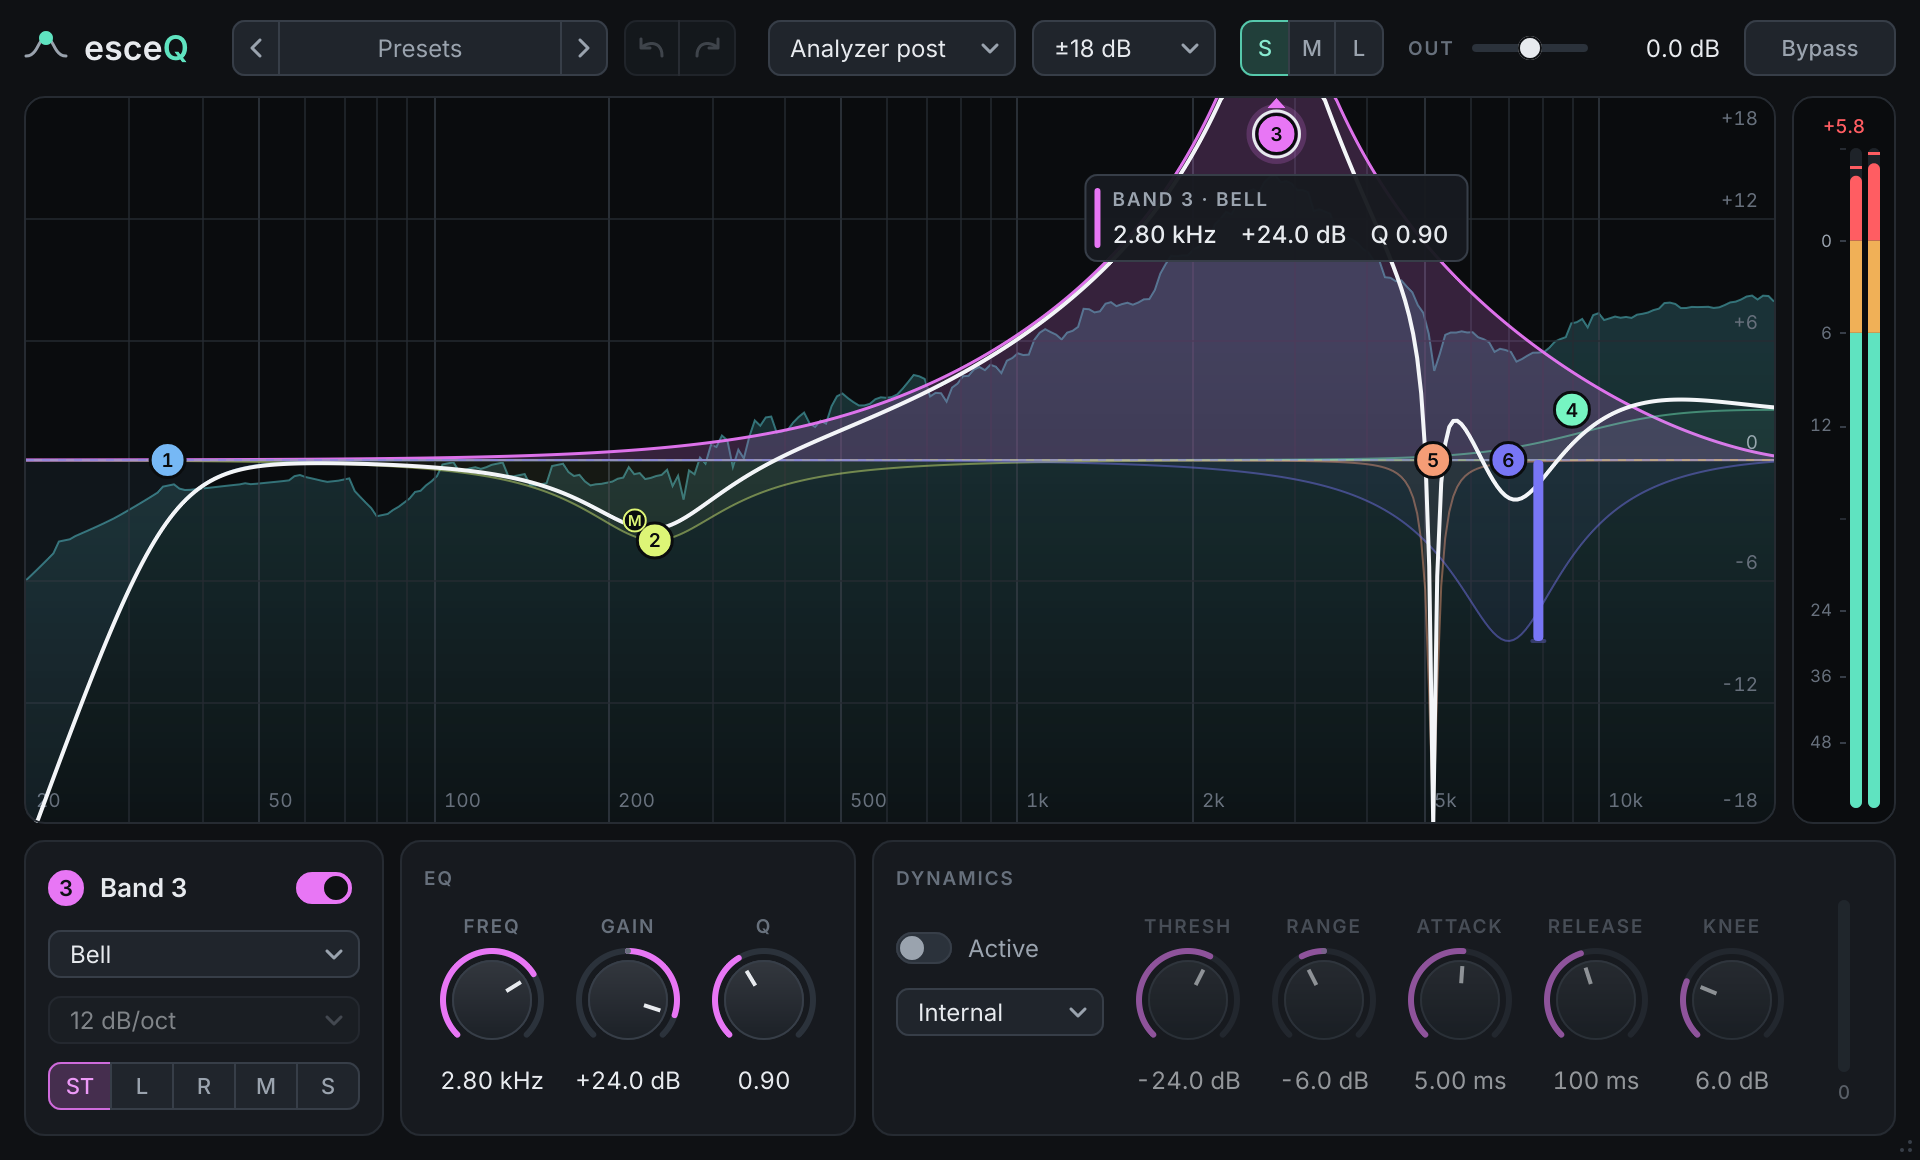
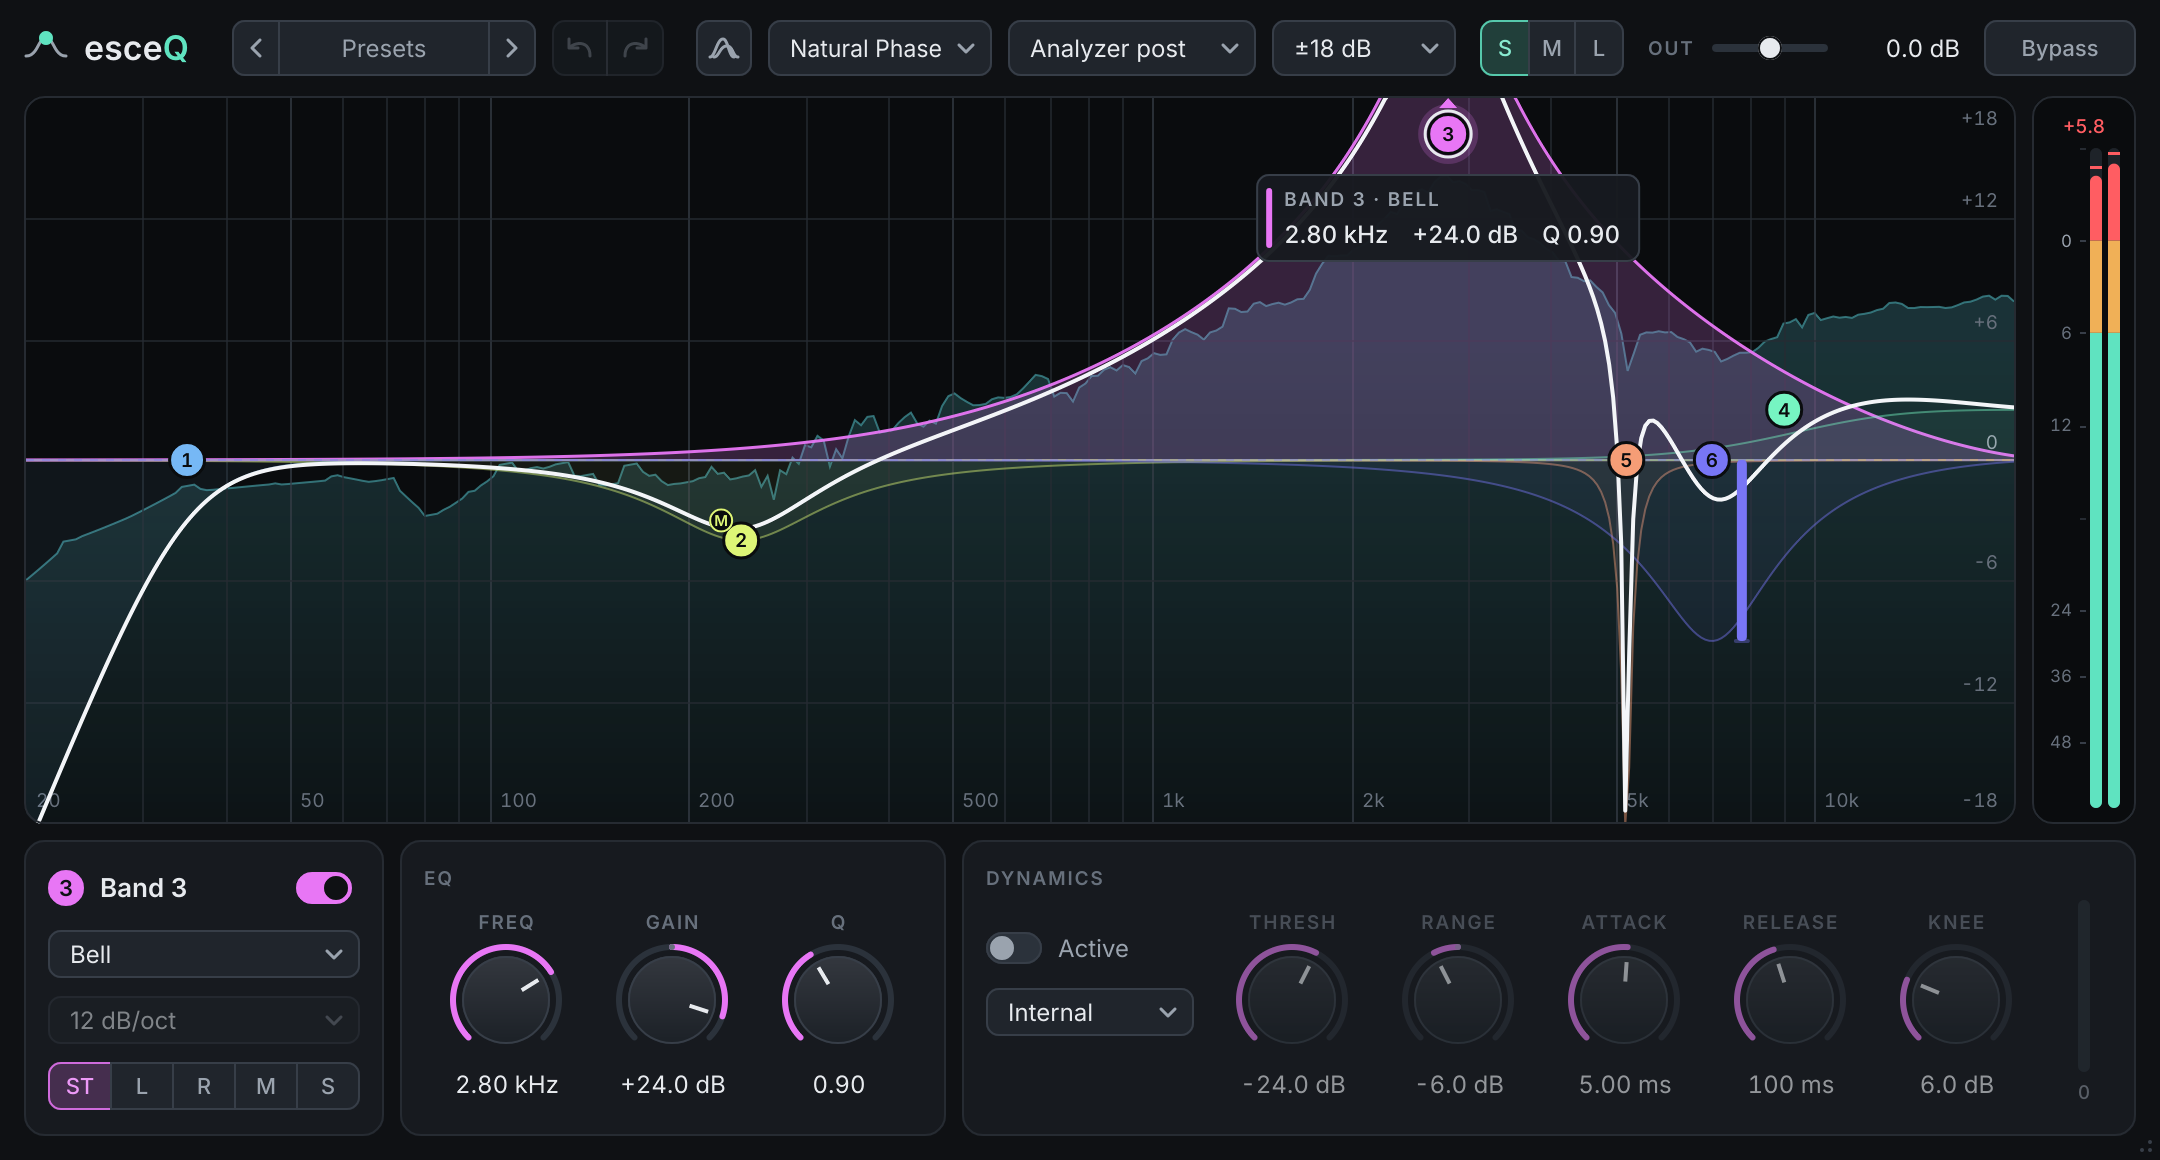
Interfaz: selector del modo de fase en la barra superior
Desplegable enlazado a phase_mode, entre Compare y el analizador. Su
ayuda dice la latencia del modo que suena (texto en ui/logic, con test).

Para que quepa sin estrechar el navegador de presets por debajo de
140 px, el ancho mínimo de la ventana pasa de 960 a 1080 px, y el tamaño
S a 1080 x 580. Capturas de la documentación regeneradas.

Claude-Session: https://claude.ai/code/session_01HP29x4EkYExYU9wRXTNtiZ

diff --git a/ui/src/EqEditor.cpp b/ui/src/EqEditor.cpp
@@ -7,6 +7,7 @@
 #include "Theme.h"
 
 #include "esceq/core/parameters.h"
+#include "esceq/ui/control_logic.h"
 #include "esceq/ui/session_overlay.h"
 
 #include <algorithm>
@@ -59,6 +60,10 @@ EqEditor::EqEditor(PluginProcessor& owner)
     addAndMakeVisible(compare_);
     updateCompareButton();
 
+    phase_.attach(owner.parameter(core::kPhaseMode), core::parameters()[core::kPhaseMode]);
+    addAndMakeVisible(phase_);
+    updatePhaseTooltip();
+
     for (int range : {6, 12, 18, 30})
         range_.addItem(juce::String::fromUTF8("\xC2\xB1") + juce::String(range) + " dB", range);
     range_.onChange = [this] {
@@ -95,8 +100,9 @@ EqEditor::EqEditor(PluginProcessor& owner)
 
     // Orden de tabulación: barra superior, curva y panel.
     int order = 1;
-    for (juce::Component* c : std::initializer_list<juce::Component*>{&presets_, &undo_, &redo_, &compare_, &analyzer_, &range_, &size_, &output_, &bypass_, &curve_,
-                                                                      &panel_})
+    for (juce::Component* c : std::initializer_list<juce::Component*>{&presets_, &undo_, &redo_, &compare_, &phase_,
+                                                                      &analyzer_, &range_, &size_, &output_, &bypass_,
+                                                                      &curve_, &panel_})
         c->setExplicitFocusOrder(order++);
 
     setResizable(true, true);
@@ -205,6 +211,7 @@ void EqEditor::resized()
     undo_.setBounds(toInt(topBar_.undo));
     redo_.setBounds(toInt(topBar_.redo).withTrimmedLeft(-1)); // comparten el borde central
     compare_.setBounds(toInt(topBar_.compare));
+    phase_.setBounds(toInt(topBar_.phase));
     analyzer_.setBounds(toInt(topBar_.analyzer));
     range_.setBounds(toInt(topBar_.range));
     size_.setBounds(toInt(topBar_.size));
@@ -234,8 +241,19 @@ void EqEditor::timerCallback()
     panel_.refresh();
     presets_.refresh();
     updateCompareButton(); // la curva quita de la selección las instancias que se van
+    updatePhaseTooltip();
     undo_.setEnabled(processor_.history().canUndo());
     redo_.setEnabled(processor_.history().canRedo());
+}
+
+void EqEditor::updatePhaseTooltip()
+{
+    // La latencia del modo que suena: cambia un momento después de elegir otro.
+    const int latency = processor_.engineLatencySamples();
+    if (latency == shownLatency_)
+        return;
+    shownLatency_ = latency;
+    phase_.setTooltip(toJuce(phaseModeTooltip(latency, processor_.currentSampleRate())));
 }
 
 void EqEditor::updateCompareButton()

diff --git a/tests/ui/layout_test.cpp b/tests/ui/layout_test.cpp
@@ -73,7 +73,7 @@ TEST_CASE("Disposicion: tamanos predefinidos dentro de los limites y distintos")
     CHECK_FALSE(matchingPreset({1001, 601}).has_value());
     CHECK(clampWindow({10, 10}) == kMinWindow);
     CHECK(clampWindow({99999, 99999}) == kMaxWindow);
-    CHECK(clampWindow({1000, 99999}) == WindowSize{1000, kMaxWindow.height});
+    CHECK(clampWindow({1100, 99999}) == WindowSize{1100, kMaxWindow.height});
 }
 
 TEST_CASE("Disposicion: las zonas de la ventana no se solapan en ningun tamano")
@@ -103,6 +103,7 @@ TEST_CASE("Disposicion: la barra superior cabe entera y no se solapa en ningun t
                              {"deshacer", bar.undo},
                              {"rehacer", bar.redo},
                              {"comparar", bar.compare},
+                             {"fase", bar.phase},
                              {"analizador", bar.analyzer},
                              {"rango", bar.range},
                              {"tamano", bar.size},
@@ -188,7 +189,7 @@ TEST_CASE("Disposicion: tamanos absurdos no producen medidas negativas")
         const auto bar = topBarLayout(editor.topBar);
         for (const Rect& r : {editor.topBar, editor.curve, editor.meter, editor.panel, panel.bandCard, panel.eqCard,
                               panel.dynamicsCard, panel.type, panel.eqKnobs[0], panel.dynamicKnobs[4], panel.dynamicsMeter,
-                              bar.logo, bar.presets, bar.bypass})
+                              bar.logo, bar.presets, bar.phase, bar.bypass})
         {
             CHECK(r.width >= 0.0f);
             CHECK(r.height >= 0.0f);

diff --git a/ui/src/EqEditor.h b/ui/src/EqEditor.h
@@ -19,8 +19,8 @@ class PluginProcessor;
 
 namespace esceq::ui {
 
-/// Ventana del plugin: barra superior (analizador, rango, tamaño, salida y
-/// bypass), curva, medidor de salida y panel de la banda seleccionada.
+/// Ventana del plugin: barra superior (modo de fase, analizador, rango,
+/// tamaño, salida y bypass), curva, medidor de salida y panel de la banda seleccionada.
 /// La disposición sale de esceq/ui/layout.h.
 class EqEditor final : public juce::AudioProcessorEditor, private juce::Timer
 {
@@ -45,6 +45,8 @@ private:
     void showCompareMenu();
     /// Pone el botón Compare de acuerdo con la selección del procesador.
     void updateCompareButton();
+    /// Pone en la ayuda del modo de fase la latencia del modo que suena.
+    void updatePhaseTooltip();
 
     PluginProcessor& processor_;
     EsceqLookAndFeel lookAndFeel_;
@@ -60,6 +62,8 @@ private:
     IconButton redo_{draw::Icon::Redo, "Redo", draw::Corners::Right};
     IconButton compare_{draw::Icon::Compare, "Compare with other tracks"};
     juce::TooltipWindow tooltips_{this, 700};
+    Dropdown phase_{"Phase mode"};
+    int shownLatency_ = -1;
     Dropdown analyzer_{"Analyzer"};
     Dropdown range_{"Display range"};
     Segmented size_;

diff --git a/ui/logic/src/control_logic.cpp b/ui/logic/src/control_logic.cpp
@@ -3,6 +3,7 @@
 
 #include <algorithm>
 #include <cmath>
+#include <cstdio>
 
 namespace esceq::ui {
 
@@ -83,6 +84,16 @@ std::string editText(const core::ParameterSpec& spec, float value)
 std::optional<float> commitText(const core::ParameterSpec& spec, std::string_view text)
 {
     return core::parseValue(spec, text);
+}
+
+std::string phaseModeTooltip(int latencySamples, double sampleRate)
+{
+    if (latencySamples <= 0 || !(sampleRate > 0.0))
+        return "Phase mode \xC2\xB7 no latency";
+    const double ms = 1000.0 * latencySamples / sampleRate;
+    char text[96];
+    std::snprintf(text, sizeof text, "Phase mode \xC2\xB7 latency %.1f ms (%d samples)", ms, latencySamples);
+    return text;
 }
 
 } // namespace esceq::ui

diff --git a/ui/logic/include/esceq/ui/layout.h b/ui/logic/include/esceq/ui/layout.h
@@ -20,7 +20,9 @@ struct WindowSize
     friend bool operator==(const WindowSize&, const WindowSize&) = default;
 };
 
-inline constexpr WindowSize kMinWindow{960, 540};
+/// El ancho mínimo es el que necesita la barra superior entera, con el
+/// navegador de presets en su ancho mínimo (ver docs/ui.md).
+inline constexpr WindowSize kMinWindow{1080, 540};
 inline constexpr WindowSize kMaxWindow{2400, 1400};
 
 /// Tamaños predefinidos de la ventana. CONTRATO: el índice se guarda en el
@@ -63,6 +65,7 @@ struct TopBarLayout
     Rect undo;
     Rect redo;
     Rect compare; ///< Comparar con otras instancias de la sesión (botón con icono).
+    Rect phase;   ///< Modo de fase.
     Rect analyzer;
     Rect range;
     Rect size;

diff --git a/ui/logic/src/layout.cpp b/ui/logic/src/layout.cpp
@@ -72,7 +72,7 @@ WindowSize windowSize(SizePreset preset) noexcept
     switch (preset)
     {
     case SizePreset::Small:
-        return {960, 580};
+        return {1080, 580};
     case SizePreset::Large:
         return {1480, 860};
     case SizePreset::Medium:
@@ -132,6 +132,8 @@ TopBarLayout topBarLayout(Rect bounds) noexcept
     layout.range = takeRight(row, 92.0f);
     takeRight(row, kS2);
     layout.analyzer = takeRight(row, 124.0f);
+    takeRight(row, kS2);
+    layout.phase = takeRight(row, 112.0f); // "Linear Medium" sin estrecharse
     takeRight(row, kS2);
     layout.compare = takeRight(row, kIconButton);
     takeRight(row, kS4);

diff --git a/tests/ui/control_logic_test.cpp b/tests/ui/control_logic_test.cpp
@@ -226,3 +226,11 @@ TEST_CASE("Controles: confirmar texto escrito a mano")
     CHECK_FALSE(commitText(gain(), "abc").has_value());
     CHECK_FALSE(commitText(frequency(), "   ").has_value());
 }
+
+TEST_CASE("Controles: la ayuda del modo de fase dice la latencia")
+{
+    CHECK(phaseModeTooltip(0, 48000.0) == "Phase mode \xC2\xB7 no latency");
+    CHECK(phaseModeTooltip(1280, 48000.0) == "Phase mode \xC2\xB7 latency 26.7 ms (1280 samples)");
+    CHECK(phaseModeTooltip(17408, 48000.0) == "Phase mode \xC2\xB7 latency 362.7 ms (17408 samples)");
+    CHECK(phaseModeTooltip(4608, 0.0) == "Phase mode \xC2\xB7 no latency");
+}

diff --git a/ui/logic/include/esceq/ui/control_logic.h b/ui/logic/include/esceq/ui/control_logic.h
@@ -68,4 +68,9 @@ std::string editText(const core::ParameterSpec& spec, float value);
 /// no se entiende (el control conserva su valor). Usa core::parseValue.
 std::optional<float> commitText(const core::ParameterSpec& spec, std::string_view text);
 
+/// Texto de ayuda del selector del modo de fase, con la latencia que el modo
+/// que suena añade: "Phase mode · latency 26.7 ms (1280 samples)", o
+/// "Phase mode · no latency".
+std::string phaseModeTooltip(int latencySamples, double sampleRate);
+
 } // namespace esceq::ui

diff --git a/docs/ui.md b/docs/ui.md
@@ -105,13 +105,13 @@ Las zonas y la posición de cada control las calcula `esceq/ui/layout.h`:
 └──────────────┴─────────────────┴─────────────────────────────────────┘
 ```
 
-- **Tamaños:** S (960 × 580), M (1180 × 700, por defecto) y L (1480 × 860), además del redimensionado libre entre 960 × 540 y 2400 × 1400.
+- **Tamaños:** S (1080 × 580), M (1180 × 700, por defecto) y L (1480 × 860), además del redimensionado libre entre 1080 × 540 y 2400 × 1400. El ancho mínimo es el que necesita la barra superior entera con el navegador de presets en su mínimo ([ADR 0012](decisiones/0012-modos-de-fase.md)).
 - **Sin textos cortados:** los tests de `tests/ui/layout_test.cpp` recorren los tamaños de ventana y comprueban que ninguna zona ni control se solapa, y que cada celda de potenciómetro tiene ancho para su etiqueta y su valor.
 - **Escalado:** todo es vectorial y se dibuja en píxeles lógicos; el factor de escala (100, 125, 150, 200 %) lo aplican JUCE y el host. Las líneas de 1 px se alinean a píxeles enteros.
 
 ### Barra superior
 
-De izquierda a derecha: la marca; el navegador de presets (anterior, nombre, siguiente; el nombre abre el menú con los de fábrica, los de usuario, guardar, borrar (pide confirmación), valores por defecto y abrir la carpeta; un punto del color de acento indica que el preset se ha modificado); deshacer y rehacer; **comparar** con otras instancias (ver más abajo); modo del analizador; rango de la curva; tamaño de la ventana; ganancia de salida y bypass. El navegador de presets se queda con el ancho que sobra, entre 140 y 320 px.
+De izquierda a derecha: la marca; el navegador de presets (anterior, nombre, siguiente; el nombre abre el menú con los de fábrica, los de usuario, guardar, borrar (pide confirmación), valores por defecto y abrir la carpeta; un punto del color de acento indica que el preset se ha modificado); deshacer y rehacer; **comparar** con otras instancias (ver más abajo); **modo de fase** (Natural Phase, Linear Low, Linear Medium, Linear High; su ayuda dice la latencia del modo que suena, ver [fase-lineal.md](dsp/fase-lineal.md)); modo del analizador; rango de la curva; tamaño de la ventana; ganancia de salida y bypass. El navegador de presets se queda con el ancho que sobra, entre 140 y 320 px.
 
 ### Panel de banda
 

diff --git a/CHANGELOG.md b/CHANGELOG.md
@@ -14,6 +14,10 @@ Formato basado en [Keep a Changelog](https://keepachangelog.com/es-ES/1.1.0/). E
 
 - **Comparar con otras pistas y detectar colisiones.** El botón *Compare* de la barra superior superpone el espectro de otras instancias de esceQ del proyecto, con el nombre y el color de su pista, y marca en rojo dónde tapan a la pista actual, con etiquetas como "Bass · 113 Hz". Facilita la ecualización por ranuras: abrir hueco en una pista justo donde suena otra, y ver el efecto al momento. Funciona con las instancias que el host carga en el mismo proceso y del mismo formato (VST3 con VST3, CLAP con CLAP). No cuesta nada mientras no se usa. No cambia el estado guardado, los parámetros ni el sonido.
 
+### Cambiado
+
+- El ancho mínimo de la ventana pasa de 960 a 1080 px, y el tamaño S, de 960 × 580 a 1080 × 580, para que quepa el selector del modo de fase. Una ventana guardada más estrecha abre con el ancho mínimo.
+
 ## [0.1.0] - 2026-11-12
 
 Primera versión pública.

diff --git a/CONTRIBUTING.md b/CONTRIBUTING.md
@@ -61,8 +61,8 @@ Cuando cambie el aspecto de la interfaz, regenera las imágenes de la documentac
 S=./build/tools/snapshot/esceq_snapshot_artefacts/Release/esceq_snapshot
 $S docs/img/esceq.png --hover 6
 $S docs/img/ui/controles.png --gallery
-$S docs/img/ui/fuera-de-rango.png 960 580 --overflow --hover 3 --select 3
-$S docs/img/ui/sin-seleccion.png 960 580 --select 0
+$S docs/img/ui/fuera-de-rango.png 1080 580 --overflow --hover 3 --select 3
+$S docs/img/ui/sin-seleccion.png 1080 580 --select 0
 $S docs/img/ui/comparar.png 1180 700 --compare --select 0
 ```
 
